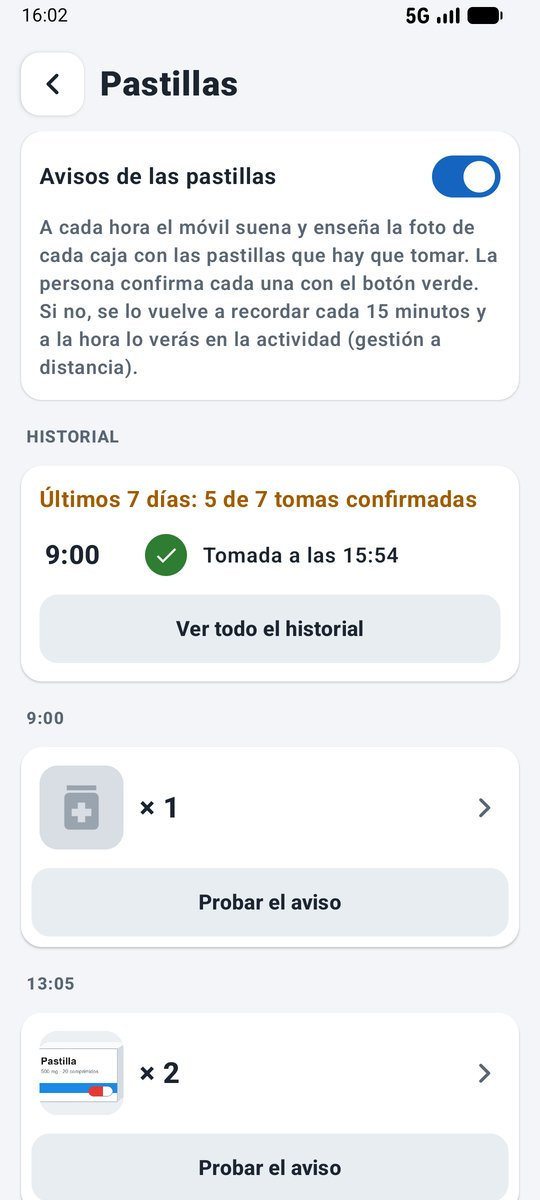
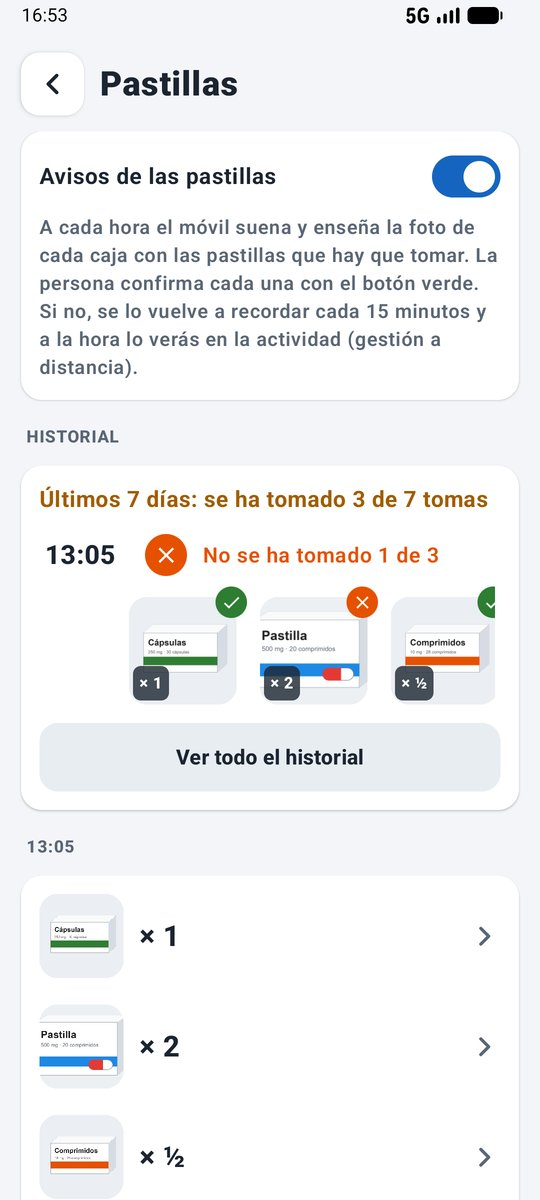
Versión 1.9.1: foto de cada caja en el historial de pastillas
- Cada toma guarda sus cajas y lo que contestó en cada una (tomada o no).
- El historial (panel, app y web del cuidador) enseña la foto de cada caja,
  cuántas eran y una marca de tomada o no.
- Las fotos de pastillas quitadas se guardan mientras salgan en el historial.
- App del cuidador 1.0.3. Capturas 60 y 61 rehechas.

diff --git a/app/src/main/java/com/launcherfacil/app/pills/Pills.kt b/app/src/main/java/com/launcherfacil/app/pills/Pills.kt
@@ -71,8 +71,13 @@ enum class PillStatus { TAKEN, SKIPPED, MISSED, PENDING }
  */
 data class PillRecord(
     val date: LocalDate, val minutes: Int, val status: PillStatus, val at: Int?,
-    val skipped: Int = 0, val total: Int = 0
+    val skipped: Int = 0, val total: Int = 0,
+    /** Las cajas de esa toma, con lo que contestó en cada una (para ver cuál se tomó). */
+    val boxes: List<PillBox> = emptyList()
 )
+
+/** Una caja dentro de una toma del historial: [taken] = true tomada, false no, null sin contestar. */
+data class PillBox(val id: String, val count: Float, val taken: Boolean?)
 
 fun formatPillTime(minutes: Int): String = "%d:%02d".format(minutes / 60, minutes % 60)
 
@@ -123,7 +128,26 @@ class PillStore(context: Context) {
 
     fun remove(id: String) {
         save(doses.filter { it.id != id })
-        photoFile(id).delete()
+        // La foto se queda mientras salga en el historial, para saber qué pastilla era.
+        if (id !in historyPhotoIds()) photoFile(id).delete()
+    }
+
+    private fun historyPhotoIds(): Set<String> = history().flatMap { r -> r.boxes.map { it.id } }.toSet()
+
+    /** Las cajas con foto que hay que tener: las de ahora y las que salen en el historial. */
+    fun photoIds(): List<String> = (doses.map { it.id } + historyPhotoIds()).distinct().filter { hasPhoto(it) }
+
+    /** Foto pequeña (para el historial), con caché: no se decodifican fotos enteras en la lista. */
+    fun loadThumb(id: String): Bitmap? {
+        thumbs[id]?.let { return it }
+        val file = photoFile(id).takeIf { it.exists() } ?: return null
+        val bounds = BitmapFactory.Options().apply { inJustDecodeBounds = true }
+        BitmapFactory.decodeFile(file.path, bounds)
+        var sample = 1
+        while (maxOf(bounds.outWidth, bounds.outHeight) / (sample * 2) >= 200) sample *= 2
+        val bitmap = BitmapFactory.decodeFile(file.path, BitmapFactory.Options().apply { inSampleSize = sample }) ?: return null
+        thumbs[id] = bitmap
+        return bitmap
     }
 
     fun photoFile(id: String) = File(appContext.filesDir, "pills/$id.jpg")
@@ -133,6 +157,7 @@ class PillStore(context: Context) {
     fun loadPhoto(id: String): Bitmap? = photoFile(id).takeIf { it.exists() }?.let { BitmapFactory.decodeFile(it.path) }
 
     private fun savePhoto(id: String, bitmap: Bitmap) {
+        thumbs.remove(id)
         val file = photoFile(id).apply { parentFile?.mkdirs() }
         file.outputStream().use { bitmap.compress(Bitmap.CompressFormat.JPEG, 85, it) }
     }
@@ -153,7 +178,7 @@ class PillStore(context: Context) {
      * Apunta cómo va la toma de hoy a esa hora. Una toma confirmada no cambia, y "sonando"
      * no pisa lo que ya hubiera.
      */
-    fun record(minutes: Int, status: PillStatus, skipped: Int = 0, total: Int = 0) {
+    fun record(minutes: Int, status: PillStatus, answers: Map<String, Boolean> = emptyMap()) {
         val today = LocalDate.now()
         val list = history(convertOld = false).toMutableList()
         val i = list.indexOfFirst { it.date == today && it.minutes == minutes }
@@ -163,7 +188,11 @@ class PillStore(context: Context) {
         if (status == PillStatus.PENDING && old != null) return
         val now = LocalTime.now()
         val answered = status == PillStatus.TAKEN || status == PillStatus.SKIPPED
-        val record = PillRecord(today, minutes, status, if (answered) now.hour * 60 + now.minute else null, skipped, total)
+        val boxes = dosesAt(minutes).map { dose ->
+            PillBox(dose.id, dose.count, if (answered) answers[dose.id] ?: (status == PillStatus.TAKEN) else null)
+        }
+        val skipped = boxes.count { it.taken == false }
+        val record = PillRecord(today, minutes, status, if (answered) now.hour * 60 + now.minute else null, skipped, boxes.size, boxes)
         if (i >= 0) list[i] = record else list.add(record)
         val from = today.minusDays(HISTORY_DAYS.toLong())
         val array = JSONArray()
@@ -171,9 +200,13 @@ class PillStore(context: Context) {
             array.put(JSONObject().put("d", r.date.toString()).put("m", r.minutes).put("s", r.status.name).apply {
                 r.at?.let { put("at", it) }
                 if (r.status == PillStatus.SKIPPED) put("n", r.skipped).put("of", r.total)
+                if (r.boxes.isNotEmpty()) put("b", JSONArray().apply {
+                    r.boxes.forEach { b -> put(JSONObject().put("id", b.id).put("c", b.count.toDouble()).apply { b.taken?.let { put("t", it) } }) }
+                })
             })
         }
         prefs.edit { putString("history", array.toString()) }
+        prunePhotos()
     }
 
     /**
@@ -189,7 +222,12 @@ class PillStore(context: Context) {
                 val date = LocalDate.parse(o.getString("d"))
                 var status = PillStatus.valueOf(o.getString("s"))
                 if (convertOld && status == PillStatus.PENDING && date.isBefore(today)) status = PillStatus.MISSED
-                PillRecord(date, o.getInt("m"), status, if (o.has("at")) o.getInt("at") else null, o.optInt("n"), o.optInt("of"))
+                val b = o.optJSONArray("b") ?: JSONArray()
+                val boxes = (0 until b.length()).map { j ->
+                    val x = b.getJSONObject(j)
+                    PillBox(x.getString("id"), x.getDouble("c").toFloat(), if (x.has("t")) x.getBoolean("t") else null)
+                }
+                PillRecord(date, o.getInt("m"), status, if (o.has("at")) o.getInt("at") else null, o.optInt("n"), o.optInt("of"), boxes)
             } catch (e: Exception) {
                 null
             }
@@ -203,9 +241,21 @@ class PillStore(context: Context) {
         return done.count { it.status == PillStatus.TAKEN } to done.size
     }
 
+    /** Borra las fotos de pastillas quitadas que ya no salen en el historial. */
+    private fun prunePhotos() {
+        val keep = (doses.map { it.id } + historyPhotoIds()).toSet()
+        File(appContext.filesDir, "pills").listFiles()?.forEach { f ->
+            if (f.nameWithoutExtension !in keep) {
+                f.delete()
+                thumbs.remove(f.nameWithoutExtension)
+            }
+        }
+    }
+
     companion object {
         /** Días que se guardan en el historial. */
         const val HISTORY_DAYS = 30
+        private val thumbs = java.util.concurrent.ConcurrentHashMap<String, Bitmap>()
     }
 }
 
@@ -270,13 +320,14 @@ object PillAlarms {
 
     /**
      * La persona ha contestado a todas las cajas de esa hora: con el verde (tomada) o con el
-     * rojo (no se la toma, [skipped] de [total]). En los dos casos el aviso deja de sonar.
+     * rojo (no se la toma), caja a caja en [answers] (id → tomada). En los dos casos el aviso deja de sonar.
      */
-    fun confirm(context: Context, minutes: Int, skipped: Int = 0, total: Int = 0) {
+    fun confirm(context: Context, minutes: Int, answers: Map<String, Boolean> = emptyMap()) {
         val store = PillStore(context)
+        val skipped = answers.count { !it.value }
+        val total = answers.size
         store.markTaken(minutes)
-        if (skipped > 0) store.record(minutes, PillStatus.SKIPPED, skipped, total)
-        else store.record(minutes, PillStatus.TAKEN)
+        store.record(minutes, if (skipped > 0) PillStatus.SKIPPED else PillStatus.TAKEN, answers)
         cancelRepeat(context, minutes)
         Remote.publishSoon(context)
         if (skipped > 0) {

diff --git a/app/src/main/java/com/launcherfacil/app/ui/RemindersPages.kt b/app/src/main/java/com/launcherfacil/app/ui/RemindersPages.kt
@@ -27,6 +27,8 @@ import androidx.activity.result.PickVisualMediaRequest
 import androidx.activity.result.contract.ActivityResultContracts
 import androidx.compose.foundation.Image
 import androidx.compose.foundation.background
+import androidx.compose.foundation.rememberScrollState
+import androidx.compose.foundation.horizontalScroll
 import androidx.compose.foundation.border
 import androidx.compose.foundation.clickable
 import androidx.compose.foundation.layout.Arrangement
@@ -76,6 +78,7 @@ import com.launcherfacil.app.news.PAPERS
 import com.launcherfacil.app.pills.PILL_COUNTS
 import com.launcherfacil.app.pills.PillAlarms
 import com.launcherfacil.app.pills.PillDose
+import com.launcherfacil.app.pills.PillBox
 import com.launcherfacil.app.pills.PillRecord
 import com.launcherfacil.app.pills.PillStatus
 import java.time.LocalDate
@@ -255,20 +258,51 @@ private fun PillRecordRow(record: PillRecord) {
         PillStatus.MISSED -> Triple(Color(0xFFC62828), R.drawable.ic_close, stringResource(R.string.pills_status_missed))
         PillStatus.PENDING -> Triple(Color(0xFF8A96A5), R.drawable.ic_snooze, stringResource(R.string.pills_status_pending))
     }
-    Row(
-        Modifier.fillMaxWidth().padding(vertical = 6.dp, horizontal = 4.dp),
-        verticalAlignment = Alignment.CenterVertically,
-        horizontalArrangement = Arrangement.spacedBy(12.dp)
-    ) {
-        Text(formatPillTime(record.minutes), color = CgInk, fontSize = 20.sp, fontWeight = FontWeight.ExtraBold, modifier = Modifier.width(64.dp))
-        Box(Modifier.size(32.dp).clip(RoundedCornerShape(16.dp)).background(color), contentAlignment = Alignment.Center) {
-            Icon(painterResource(icon), null, tint = Color.White, modifier = Modifier.size(20.dp))
+    Column(Modifier.fillMaxWidth().padding(vertical = 6.dp, horizontal = 4.dp)) {
+        Row(verticalAlignment = Alignment.CenterVertically, horizontalArrangement = Arrangement.spacedBy(12.dp)) {
+            Text(formatPillTime(record.minutes), color = CgInk, fontSize = 20.sp, fontWeight = FontWeight.ExtraBold, modifier = Modifier.width(64.dp))
+            Box(Modifier.size(32.dp).clip(RoundedCornerShape(16.dp)).background(color), contentAlignment = Alignment.Center) {
+                Icon(painterResource(icon), null, tint = Color.White, modifier = Modifier.size(20.dp))
+            }
+            Text(text, color = when (record.status) {
+                PillStatus.MISSED -> Color(0xFFC62828)
+                PillStatus.SKIPPED -> Color(0xFFE65100)
+                else -> CgInk
+            }, fontSize = 16.sp, fontWeight = FontWeight.SemiBold)
         }
-        Text(text, color = when (record.status) {
-            PillStatus.MISSED -> Color(0xFFC62828)
-            PillStatus.SKIPPED -> Color(0xFFE65100)
-            else -> CgInk
-        }, fontSize = 16.sp, fontWeight = FontWeight.SemiBold)
+        // Qué pastillas eran: la foto de cada caja, cuántas y si la tomó (✓) o no (✗).
+        if (record.boxes.isNotEmpty()) {
+            Row(
+                Modifier.padding(start = 64.dp, top = 8.dp).horizontalScroll(rememberScrollState()),
+                horizontalArrangement = Arrangement.spacedBy(10.dp)
+            ) {
+                record.boxes.forEach { PillBoxThumb(it) }
+            }
+        }
+    }
+}
+
+@Composable
+private fun PillBoxThumb(box: PillBox) {
+    val context = LocalContext.current
+    val photo by produceState<Bitmap?>(null, box.id) { value = withContext(Dispatchers.IO) { PillStore(context).loadThumb(box.id) } }
+    Box(Modifier.size(90.dp)) {
+        PillThumb(photo, Modifier.size(82.dp).align(Alignment.BottomStart))
+        Text(
+            "× " + formatPillCount(box.count), color = Color.White, fontSize = 12.sp, fontWeight = FontWeight.ExtraBold,
+            modifier = Modifier.align(Alignment.BottomStart).padding(start = 3.dp, bottom = 3.dp)
+                .clip(RoundedCornerShape(6.dp)).background(Color(0xCC1B2430)).padding(horizontal = 5.dp, vertical = 1.dp)
+        )
+        val taken = box.taken
+        if (taken != null) {
+            Box(
+                Modifier.size(24.dp).align(Alignment.TopEnd).clip(RoundedCornerShape(12.dp))
+                    .background(if (taken) Color(0xFF2E7D32) else Color(0xFFE65100)),
+                contentAlignment = Alignment.Center
+            ) {
+                Icon(painterResource(if (taken) R.drawable.ic_check else R.drawable.ic_close), null, tint = Color.White, modifier = Modifier.size(16.dp))
+            }
+        }
     }
 }
 

diff --git a/app/src/main/java/com/launcherfacil/app/remote/RemoteState.kt b/app/src/main/java/com/launcherfacil/app/remote/RemoteState.kt
@@ -132,7 +132,8 @@ internal object RemoteState {
                 "history" to pills.history().map { r ->
                     mapOf(
                         "date" to r.date.toString(), "minutes" to r.minutes, "status" to r.status.name.lowercase(), "at" to r.at,
-                        "skipped" to r.skipped, "total" to r.total
+                        "skipped" to r.skipped, "total" to r.total,
+                        "boxes" to r.boxes.map { b -> mapOf("id" to b.id, "count" to b.count.toDouble(), "taken" to b.taken) }
                     )
                 }
             ),
@@ -151,7 +152,8 @@ internal object RemoteState {
      */
     private suspend fun uploadPillPhotos(context: Context, device: DocumentReference, pills: PillStore) {
         val prefs = context.getSharedPreferences("remote_photos", Context.MODE_PRIVATE)
-        val doses = pills.doses.filter { pills.hasPhoto(it.id) }.map { it.id }
+        // Las de ahora y las que salen en el historial (aunque ya se hayan quitado).
+        val doses = pills.photoIds()
         for (key in prefs.all.keys.filter { it.startsWith("pill_") && it.removePrefix("pill_") !in doses }) {
             device.collection("photos").document(key).delete().await()
             prefs.edit { remove(key) }

diff --git a/cuidador/app.js b/cuidador/app.js
@@ -991,7 +991,11 @@ function pillRecord(r) {
   const [cls, mark, text] = r.status === 'taken' ? ['taken', '✓', `Tomada a las ${pillTime(r.at ?? r.minutes)}`]
     : r.status === 'skipped' ? ['skipped', '✗', r.total > 1 && r.skipped < r.total ? `No se ha tomado ${r.skipped} de ${r.total}` : 'Ha dicho que no se la toma']
     : r.status === 'missed' ? ['missed', '✗', 'No la ha confirmado'] : ['wait', '…', 'Avisando ahora'];
-  return `<div class="pill-rec ${cls}"><span class="t">${pillTime(r.minutes)}</span><span class="dot">${mark}</span><span class="tx">${text}</span></div>`;
+  // Qué pastillas eran: la foto de cada caja, cuántas y si la tomó (✓) o no (✗).
+  const boxes = (r.boxes || []).map(b => `<span class="pill-box">${pillPhoto(b)}<b class="n">× ${pillCount(b.count)}</b>${
+    b.taken === true ? '<b class="ans y">✓</b>' : b.taken === false ? '<b class="ans n2">✗</b>' : ''}</span>`).join('');
+  return `<div class="pill-rec ${cls}"><span class="t">${pillTime(r.minutes)}</span><span class="dot">${mark}</span><span class="tx">${text}</span></div>${
+    boxes ? `<div class="pill-boxes">${boxes}</div>` : ''}`;
 }
 
 function pillHistoryCard(p) {

diff --git a/cuidador/style.css b/cuidador/style.css
@@ -224,3 +224,11 @@ textarea:focus { outline: 2px solid var(--accent); border-color: var(--accent); 
 .pill-rec.skipped .tx { color: #E65100; }
 .pill-rec.wait .dot { background: var(--chevron); }
 .pill-rec .tx { font-size: 16px; font-weight: 600; }
+.pill-boxes { display: flex; flex-wrap: wrap; gap: 10px; padding: 6px 0 10px 62px; }
+.pill-box { position: relative; width: 82px; height: 82px; }
+.pill-box .ph, .pill-box img.ph { width: 82px; height: 82px; border-radius: 14px; object-fit: cover; background: #D9DEE4; display: grid; place-items: center; }
+.pill-box .ph svg { width: 34px; height: 34px; color: #7A8794; }
+.pill-box .n { position: absolute; left: 3px; bottom: 3px; background: rgba(27,36,48,.8); color: #fff; font-size: 12px; border-radius: 6px; padding: 1px 5px; }
+.pill-box .ans { position: absolute; right: -6px; top: -6px; width: 24px; height: 24px; border-radius: 50%; display: grid; place-items: center; color: #fff; font-size: 14px; }
+.pill-box .ans.y { background: var(--green); }
+.pill-box .ans.n2 { background: #E65100; }

diff --git a/app/src/main/java/com/launcherfacil/app/alerts/AlertScreens.kt b/app/src/main/java/com/launcherfacil/app/alerts/AlertScreens.kt
@@ -172,7 +172,7 @@ private fun DrawScope.bolt(center: Offset, height: Float, color: Color) {
  * El botón gris del reloj lo deja para luego: el aviso vuelve a los 15 minutos.
  */
 @Composable
-fun PillsAlertScreen(minutes: Int, version: Int, onDone: (skipped: Int, total: Int) -> Unit, onLater: () -> Unit) {
+fun PillsAlertScreen(minutes: Int, version: Int, onDone: (answers: Map<String, Boolean>) -> Unit, onLater: () -> Unit) {
     val context = LocalContext.current
     val store = remember { PillStore(context) }
     val doses = remember(minutes, version) { store.dosesAt(minutes) }
@@ -183,7 +183,7 @@ fun PillsAlertScreen(minutes: Int, version: Int, onDone: (skipped: Int, total: I
     LaunchedEffect(finished) {
         if (finished) {
             delay(1500)
-            onDone(answers.count { !it }, doses.size)
+            onDone(doses.zip(answers).associate { (dose, taken) -> dose.id to taken })
         }
     }
     val answer = { taken: Boolean ->

diff --git a/app/src/debug/java/com/launcherfacil/app/pills/DebugPillHistoryReceiver.kt b/app/src/debug/java/com/launcherfacil/app/pills/DebugPillHistoryReceiver.kt
@@ -56,6 +56,13 @@ class DebugPillHistoryReceiver : BroadcastReceiver() {
                     skipped -> o.put("s", "SKIPPED").put("at", minutes + 2).put("n", 1).put("of", 1)
                     else -> o.put("s", "TAKEN").put("at", minutes + (d * 3 + i * 5) % 25)
                 }
+                val boxes = JSONArray()
+                PillStore(context).dosesAt(minutes).forEach { dose ->
+                    boxes.put(JSONObject().put("id", dose.id).put("c", dose.count.toDouble()).apply {
+                        if (!missed) put("t", !skipped)
+                    })
+                }
+                if (boxes.length() > 0) o.put("b", boxes)
                 array.put(o)
             }
         }

diff --git a/app/src/main/java/com/launcherfacil/app/alerts/ReminderActivity.kt b/app/src/main/java/com/launcherfacil/app/alerts/ReminderActivity.kt
@@ -87,8 +87,8 @@ class ReminderActivity : ComponentActivity() {
                     PillsAlertScreen(
                         minutes = minutes,
                         version = version,
-                        onDone = { skipped, total ->
-                            if (!test) PillAlarms.confirm(this, minutes, skipped, total)
+                        onDone = { answers ->
+                            if (!test) PillAlarms.confirm(this, minutes, answers)
                             leave()
                         },
                         onLater = ::leave

diff --git a/docs/FUNCIONES.md b/docs/FUNCIONES.md
@@ -273,7 +273,7 @@ Opcional. El cuidador apunta cada pastilla: la **hora**, cuántas (también **me
 
 - El **botón rojo (✗)** es para decir que **no se la toma**: pasa a la siguiente caja igual, el aviso deja de sonar y queda apuntado en el historial ("Ha dicho que no se la toma", o "No se ha tomado 1 de 3" si solo es una caja). El cuidador lo ve en la actividad.
 - El **botón gris del despertador** (con una Z, como el de «posponer» de las alarmas) lo deja para luego. Si no se confirma, el aviso vuelve **cada 15 minutos**, y a la hora el cuidador ve en la actividad "No ha confirmado las pastillas de las 9:00". Cuando las confirma todas, ve "Se ha tomado las pastillas de las 9:00".
-- **Historial**: el cuidador ve, en el panel del móvil y a distancia (app o web del cuidador), cada toma de los últimos 30 días: ✓ verde "Tomada a las 9:12" (la hora a la que la confirmó), ✗ naranja "Ha dicho que no se la toma", ✗ roja "No la ha confirmado" (no contestó) o "Avisando ahora". Arriba, el resumen de la semana ("Últimos 7 días: se ha tomado 12 de 14 tomas"); si falta alguna, el apartado Pastillas sale en ámbar en la portada del panel.
+- **Historial**: el cuidador ve, en el panel del móvil y a distancia (app o web del cuidador), cada toma de los últimos 30 días: ✓ verde "Tomada a las 9:12" (la hora a la que la confirmó), ✗ naranja "Ha dicho que no se la toma", ✗ roja "No la ha confirmado" (no contestó) o "Avisando ahora". Debajo de cada toma salen las **fotos de sus cajas** con cuántas eran y una ✓ o una ✗ en cada una, para saber exactamente qué pastilla se ha tomado y cuál no. Si se quita una pastilla de la lista, su foto se guarda mientras salga en el historial. Arriba, el resumen de la semana ("Últimos 7 días: se ha tomado 12 de 14 tomas"); si falta alguna, el apartado Pastillas sale en ámbar en la portada del panel.
 - Funciona aunque el móvil esté en reposo, sin internet y tras reiniciar.
 - En el panel, **Probar el aviso** lo enseña sin contar como toma.
 

diff --git a/docs/ACTUALIZAR.md b/docs/ACTUALIZAR.md
@@ -132,7 +132,7 @@ Lo nuevo de las últimas versiones, todo desde el panel del cuidador:
 | Novedad | Dónde se explica |
 |---|---|
 | **Aviso de batería baja** (1.9): el dibujo del móvil y el cargador al bajar del porcentaje que elijas | [Guía, paso 9.8](GUIA-INSTALACION.md#98-batería-baja-opcional) |
-| **Pastillas** (1.9): a cada hora, la foto de cada caja y cuántas tomar; la persona contesta con el botón verde (tomada) o el rojo (no se la toma) y tú lo ves en la actividad y en el **historial de tomas** | [Guía, paso 9.9](GUIA-INSTALACION.md#99-pastillas-opcional) |
+| **Pastillas** (1.9): a cada hora, la foto de cada caja y cuántas tomar; la persona contesta con el botón verde (tomada) o el rojo (no se la toma) y tú lo ves en la actividad y en el **historial de tomas**, con la foto de cada caja (1.9.1) | [Guía, paso 9.9](GUIA-INSTALACION.md#99-pastillas-opcional) |
 | **Periódicos** (1.9): 42 periódicos y revistas gratuitos por secciones, con foto, en grande y con voz; la noticia entera se abre sin avisos de cookies ni anuncios que la tapen | [Guía, paso 9.10](GUIA-INSTALACION.md#910-periódicos-opcional) |
 | **Cámara y fotos** (1.9): hacer fotos con la cámara de atrás o la de delante y verlas, con botones muy sencillos. Se activan en **Pantalla principal**, también a distancia | [Guía, paso 9.7](GUIA-INSTALACION.md#97-cámara-y-fotos-opcional) |
 | **Pausa del modo quiosco** (1.9): el móvil queda como uno normal, con su pantalla de inicio, hasta que lo actives; pausar y activar son inmediatos | [Funciones](FUNCIONES.md#panel-del-cuidador) |

diff --git a/docs/GUIA-INSTALACION.md b/docs/GUIA-INSTALACION.md
@@ -454,7 +454,7 @@ En el apartado **Batería baja**, activa **Recordarle que cargue el móvil** y e
 1. En el apartado **Pastillas**, activa **Avisos de las pastillas** y pulsa **Añadir una pastilla**.
 2. Elige la **hora** con − y +, **cuántas** (½ es media pastilla) y haz una **foto de la caja**, de frente y con luz: es lo que verá la persona.
 3. Repite con cada pastilla. Las de la misma hora salen una detrás de otra.
-4. Desde el día siguiente, en ese mismo apartado verás el **Historial**: si se ha tomado cada toma y a qué hora la confirmó, si ha dicho que no se la toma (botón rojo del aviso) o si no ha contestado (también desde la app o la web del cuidador).
+4. Desde el día siguiente, en ese mismo apartado verás el **Historial**: si se ha tomado cada toma y a qué hora la confirmó, si ha dicho que no se la toma (botón rojo del aviso) o si no ha contestado, con la foto de cada caja para saber qué pastilla era (también desde la app o la web del cuidador).
 4. Pulsa **Probar el aviso** con la persona delante: tiene que tocar el **botón verde** cada vez que se toma una. El gris del reloj lo deja para dentro de 15 minutos.
 
 Con la gestión a distancia también puedes añadirlas, cambiarlas y hacer la foto desde la app o la web del cuidador, y verás en la actividad si las ha confirmado.
